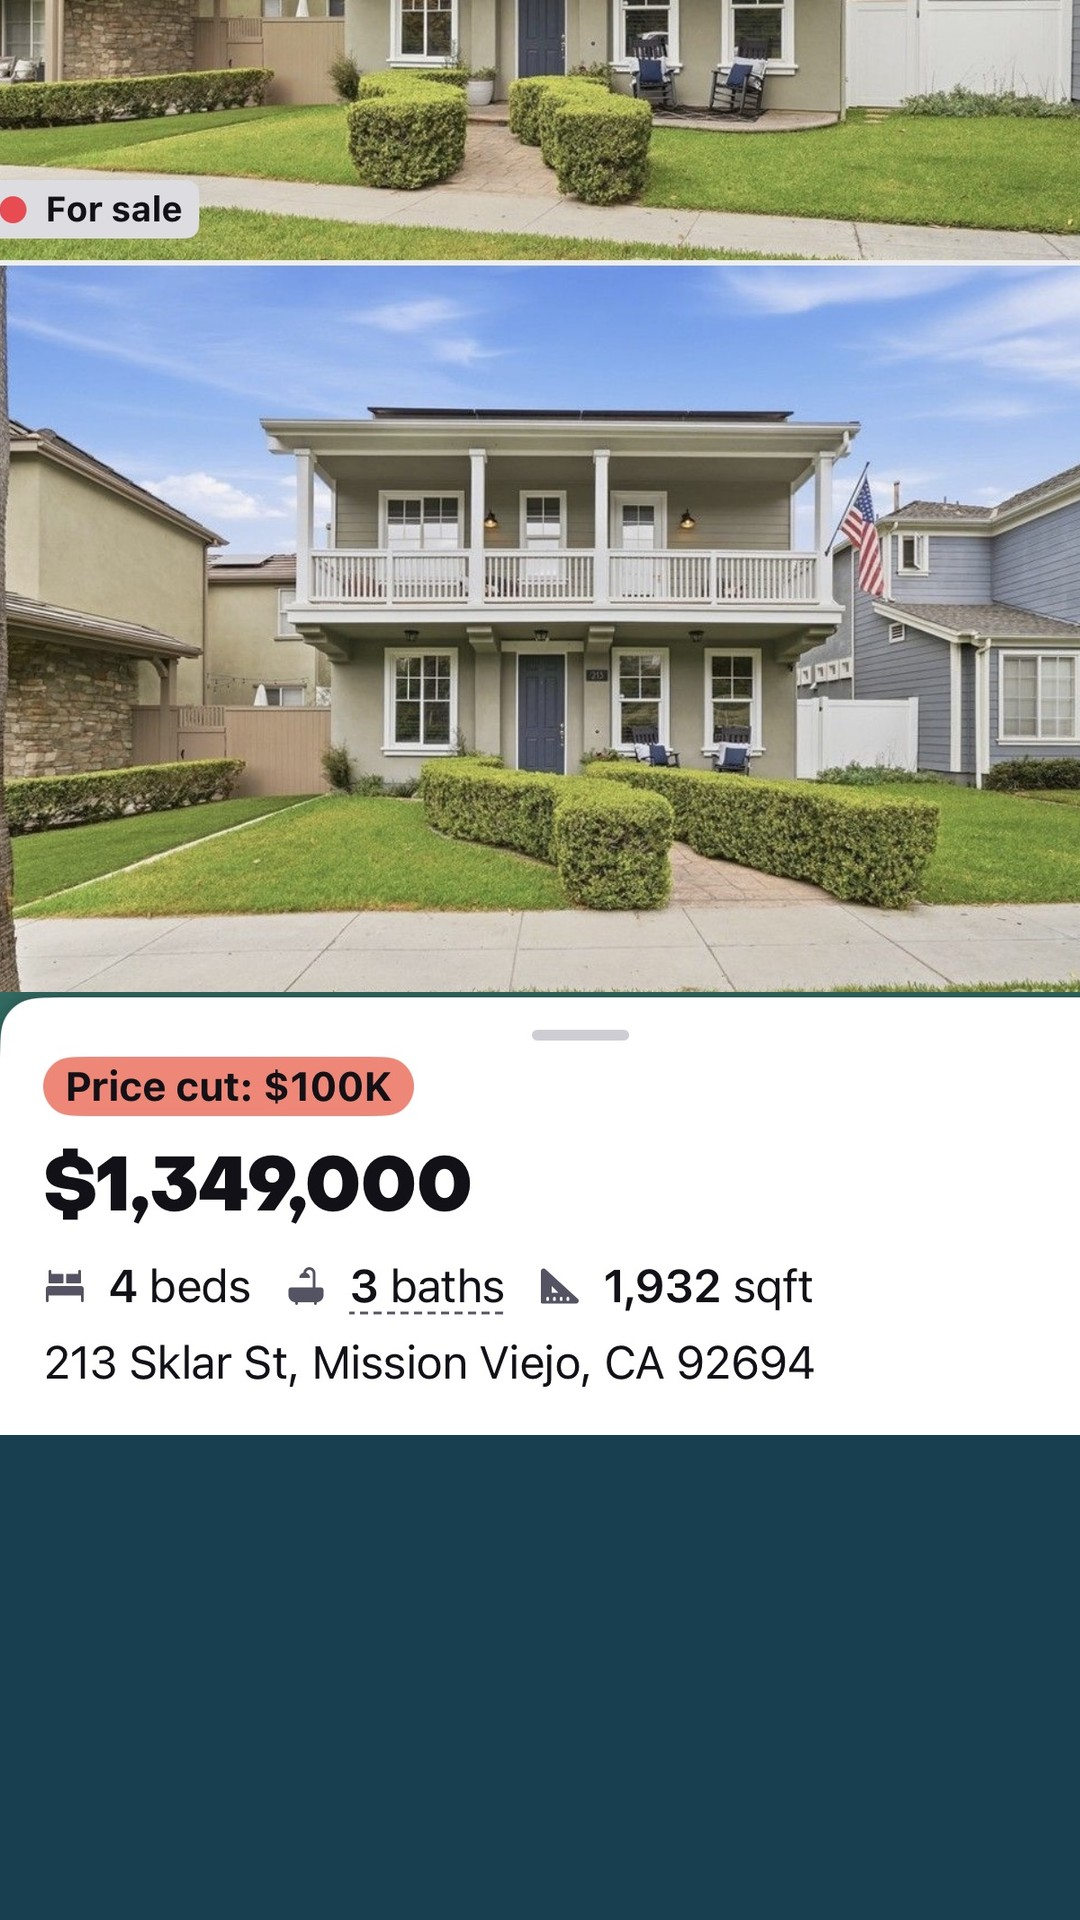
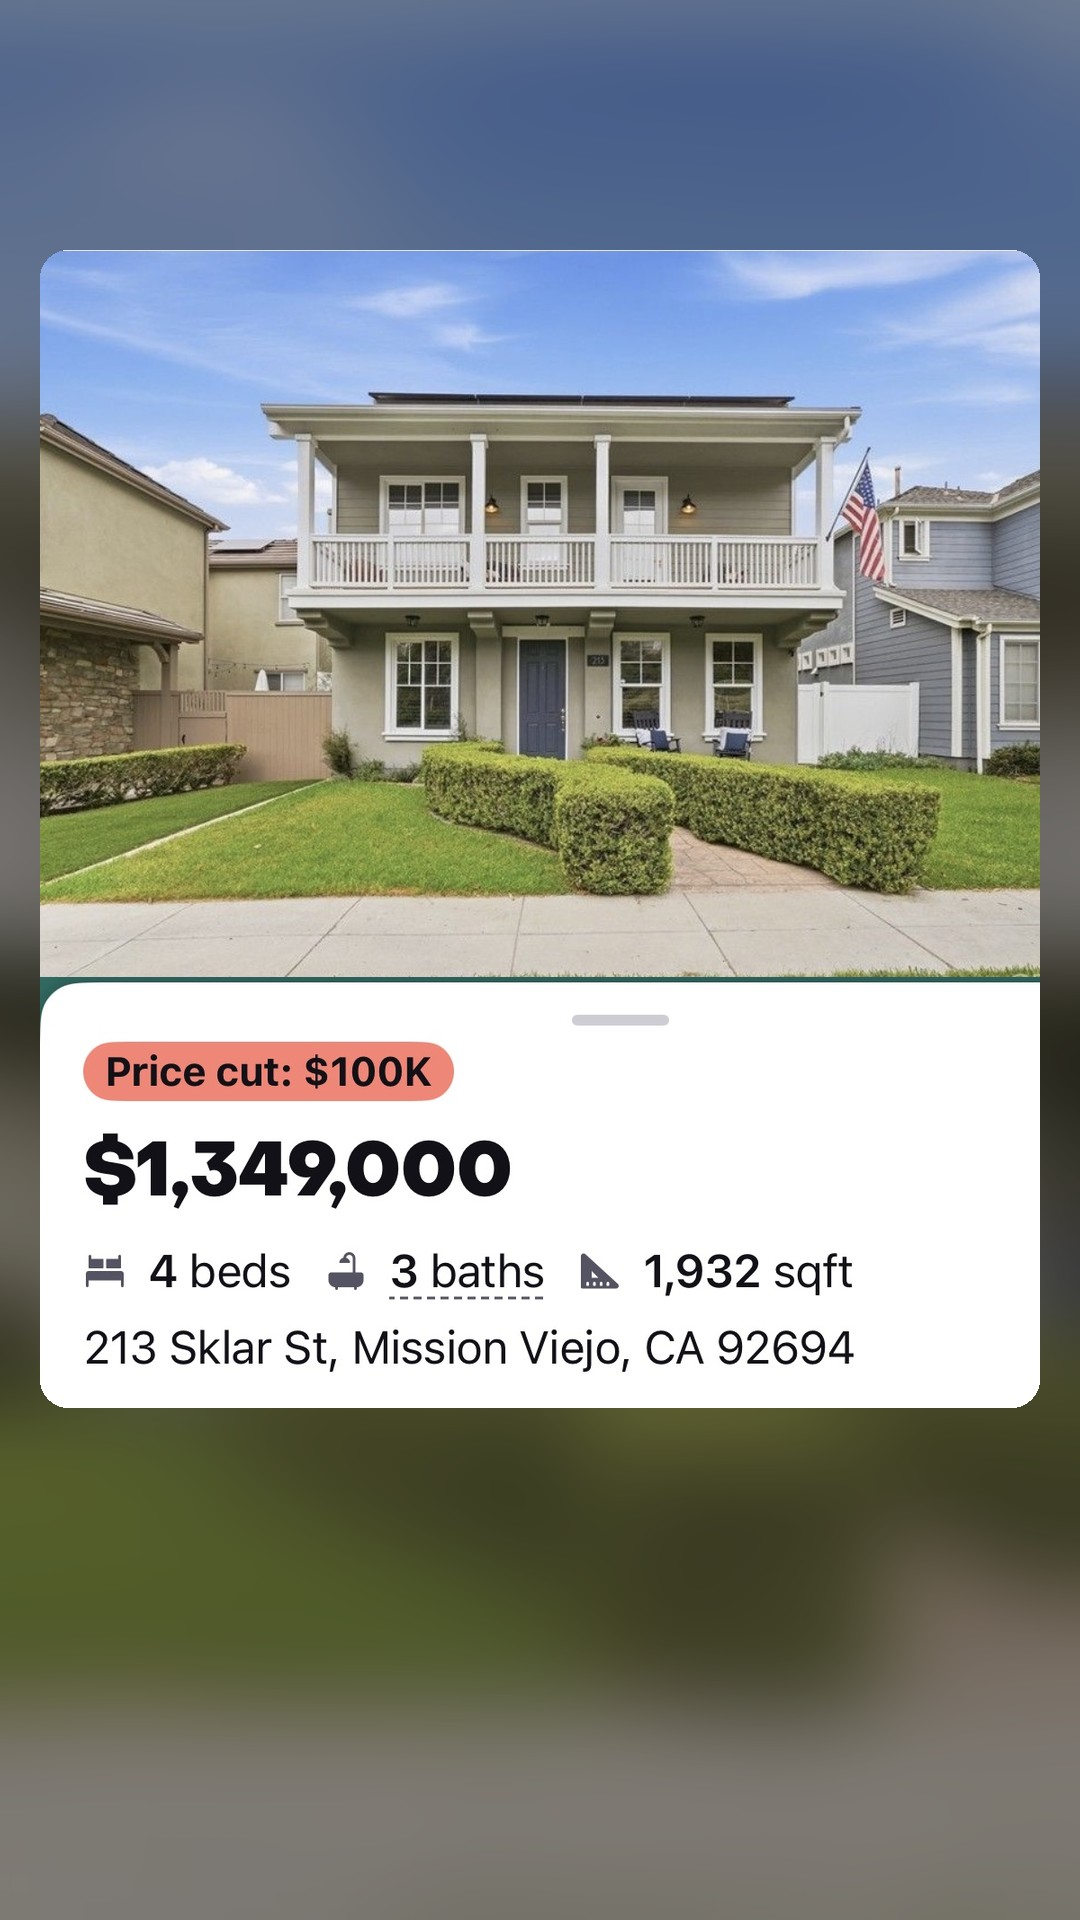
Price cuts reel: listings float as cards on a blurred house photo
Claude-Session: https://claude.ai/code/session_017wiG7cP2vjPrb1Rep8f51e

diff --git a/graphics/price-cuts/make-cuts.py b/graphics/price-cuts/make-cuts.py
@@ -7,7 +7,7 @@ import sys, numpy as np
 from PIL import Image
 src, out = sys.argv[1], sys.argv[2]
 order = ["IMG_8646","IMG_8648","IMG_8649","IMG_8651","IMG_8652","IMG_8654","IMG_8655"]
-S = 0.9; W = 1080; HERO = 808; TOP = 265
+S = 0.9; W = 1080; HERO = 808; TOP = 250
 for i, n in enumerate(order, 1):
     im = Image.open(f"{src}/{n}.PNG").convert("RGB"); a = np.asarray(im).astype(int); H = a.shape[0]
     sd = a.std(axis=(1, 2)); uni = sd < 8
@@ -19,17 +19,24 @@ for i, n in enumerate(order, 1):
         if not green[y] and s is not None: runs.append((s, y)); s = None
     g0, g1 = [r for r in runs if r[1] - r[0] > 100][-1]          # the Est. $/mo bar is the last tall green run
     hero_top = p1_end + 4; hero_bot = hero_top + HERO
-    lead = int(TOP / S)                                            # strip of the page above the hero, under IG chrome
-    top_part = im.crop((0, hero_top - lead, im.width, hero_bot))
+    hero = im.crop((0, hero_top, im.width, hero_bot))
     price = im.crop((0, g1 + 1, im.width, H))
     sw = round(im.width * S)
-    top_part = top_part.resize((sw, round(top_part.height * S)), Image.LANCZOS)
-    price = price.resize((sw, round(price.height * S)), Image.LANCZOS)
-    frame = Image.new("RGB", (W, 1920), (23, 63, 79))                # navy below the price block, not a white void
-    x = (W - sw) // 2
-    frame.paste(top_part, (x, 0))                                  # photos centred (crop both sides)
-    frame.paste(price, (0, top_part.height))                       # price block keeps its left edge
-    bottom = top_part.height + price.height
-    frame.paste((255, 255, 255), (0, bottom, W, bottom + 24))          # a little page under the address, then navy
+    hero_s = hero.resize((sw, round(hero.height * S)), Image.LANCZOS)
+    price_s = price.resize((sw, round(price.height * S)), Image.LANCZOS)
+    # Background: the house photo blown up, blurred and darkened, edge to edge, so nothing in the frame is a void
+    # (Kyle, 2026-10-30: the navy under the card "still looks a little weird"). The listing floats on it as a card.
+    from PIL import ImageFilter, ImageEnhance, ImageDraw
+    bg = hero.resize((round(hero.width * 1920 / hero.height), 1920), Image.LANCZOS)
+    bg = bg.crop(((bg.width - W) // 2, 0, (bg.width - W) // 2 + W, 1920)).filter(ImageFilter.GaussianBlur(45))
+    frame = ImageEnhance.Brightness(bg).enhance(0.6)
+    CW = 1000; cx = (W - CW) // 2; ox = (sw - CW) // 2                 # card 1000 wide, photo cropped both sides
+    card = Image.new("RGB", (CW, hero_s.height + price_s.height + 12), "white")
+    card.paste(hero_s.crop((ox, 0, ox + CW, hero_s.height)), (0, 0))
+    card.paste(price_s.crop((0, 0, CW, price_s.height)), (0, hero_s.height))   # price block keeps its left edge
+    mask = Image.new("L", card.size, 0)
+    ImageDraw.Draw(mask).rounded_rectangle([0, 0, card.width - 1, card.height - 1], radius=28, fill=255)
+    frame.paste(card, (cx, TOP), mask)
+    bottom = TOP + card.height
     frame.save(f"{out}/cut{i}.jpg", quality=90)
     print(i, n, "p1_end", p1_end, "green", g0, g1, "hero", hero_top, hero_bot, "-> price block ends at", bottom)

diff --git a/docs/log/2026-10-29-price-cuts.md b/docs/log/2026-10-29-price-cuts.md
@@ -60,3 +60,6 @@ The "PNG" screenshots were JPEGs inside; PIL does not care. He had already cropp
 - 2026-10-30: "the bottom font looks a little too faint to read" on frame 1 → Manrope 700 at 58 px (was
   500 at 44) and the bottom scrim goes almost solid navy in the last quarter. "So much white space below"
   the listings → `make-cuts.py` fills under the price block with navy (24 px of page, then navy).
+- "Still big empty space even though it's colored now": the listing is now a 1000 px rounded card (house
+  photo + price block, scale 0.9, y=250 to ~1420) floating on the same house photo blown up to 1920, blurred
+  45 px and darkened to 60 %. Full frame, no void, and the chrome-covered bottom is just blurred photo.
